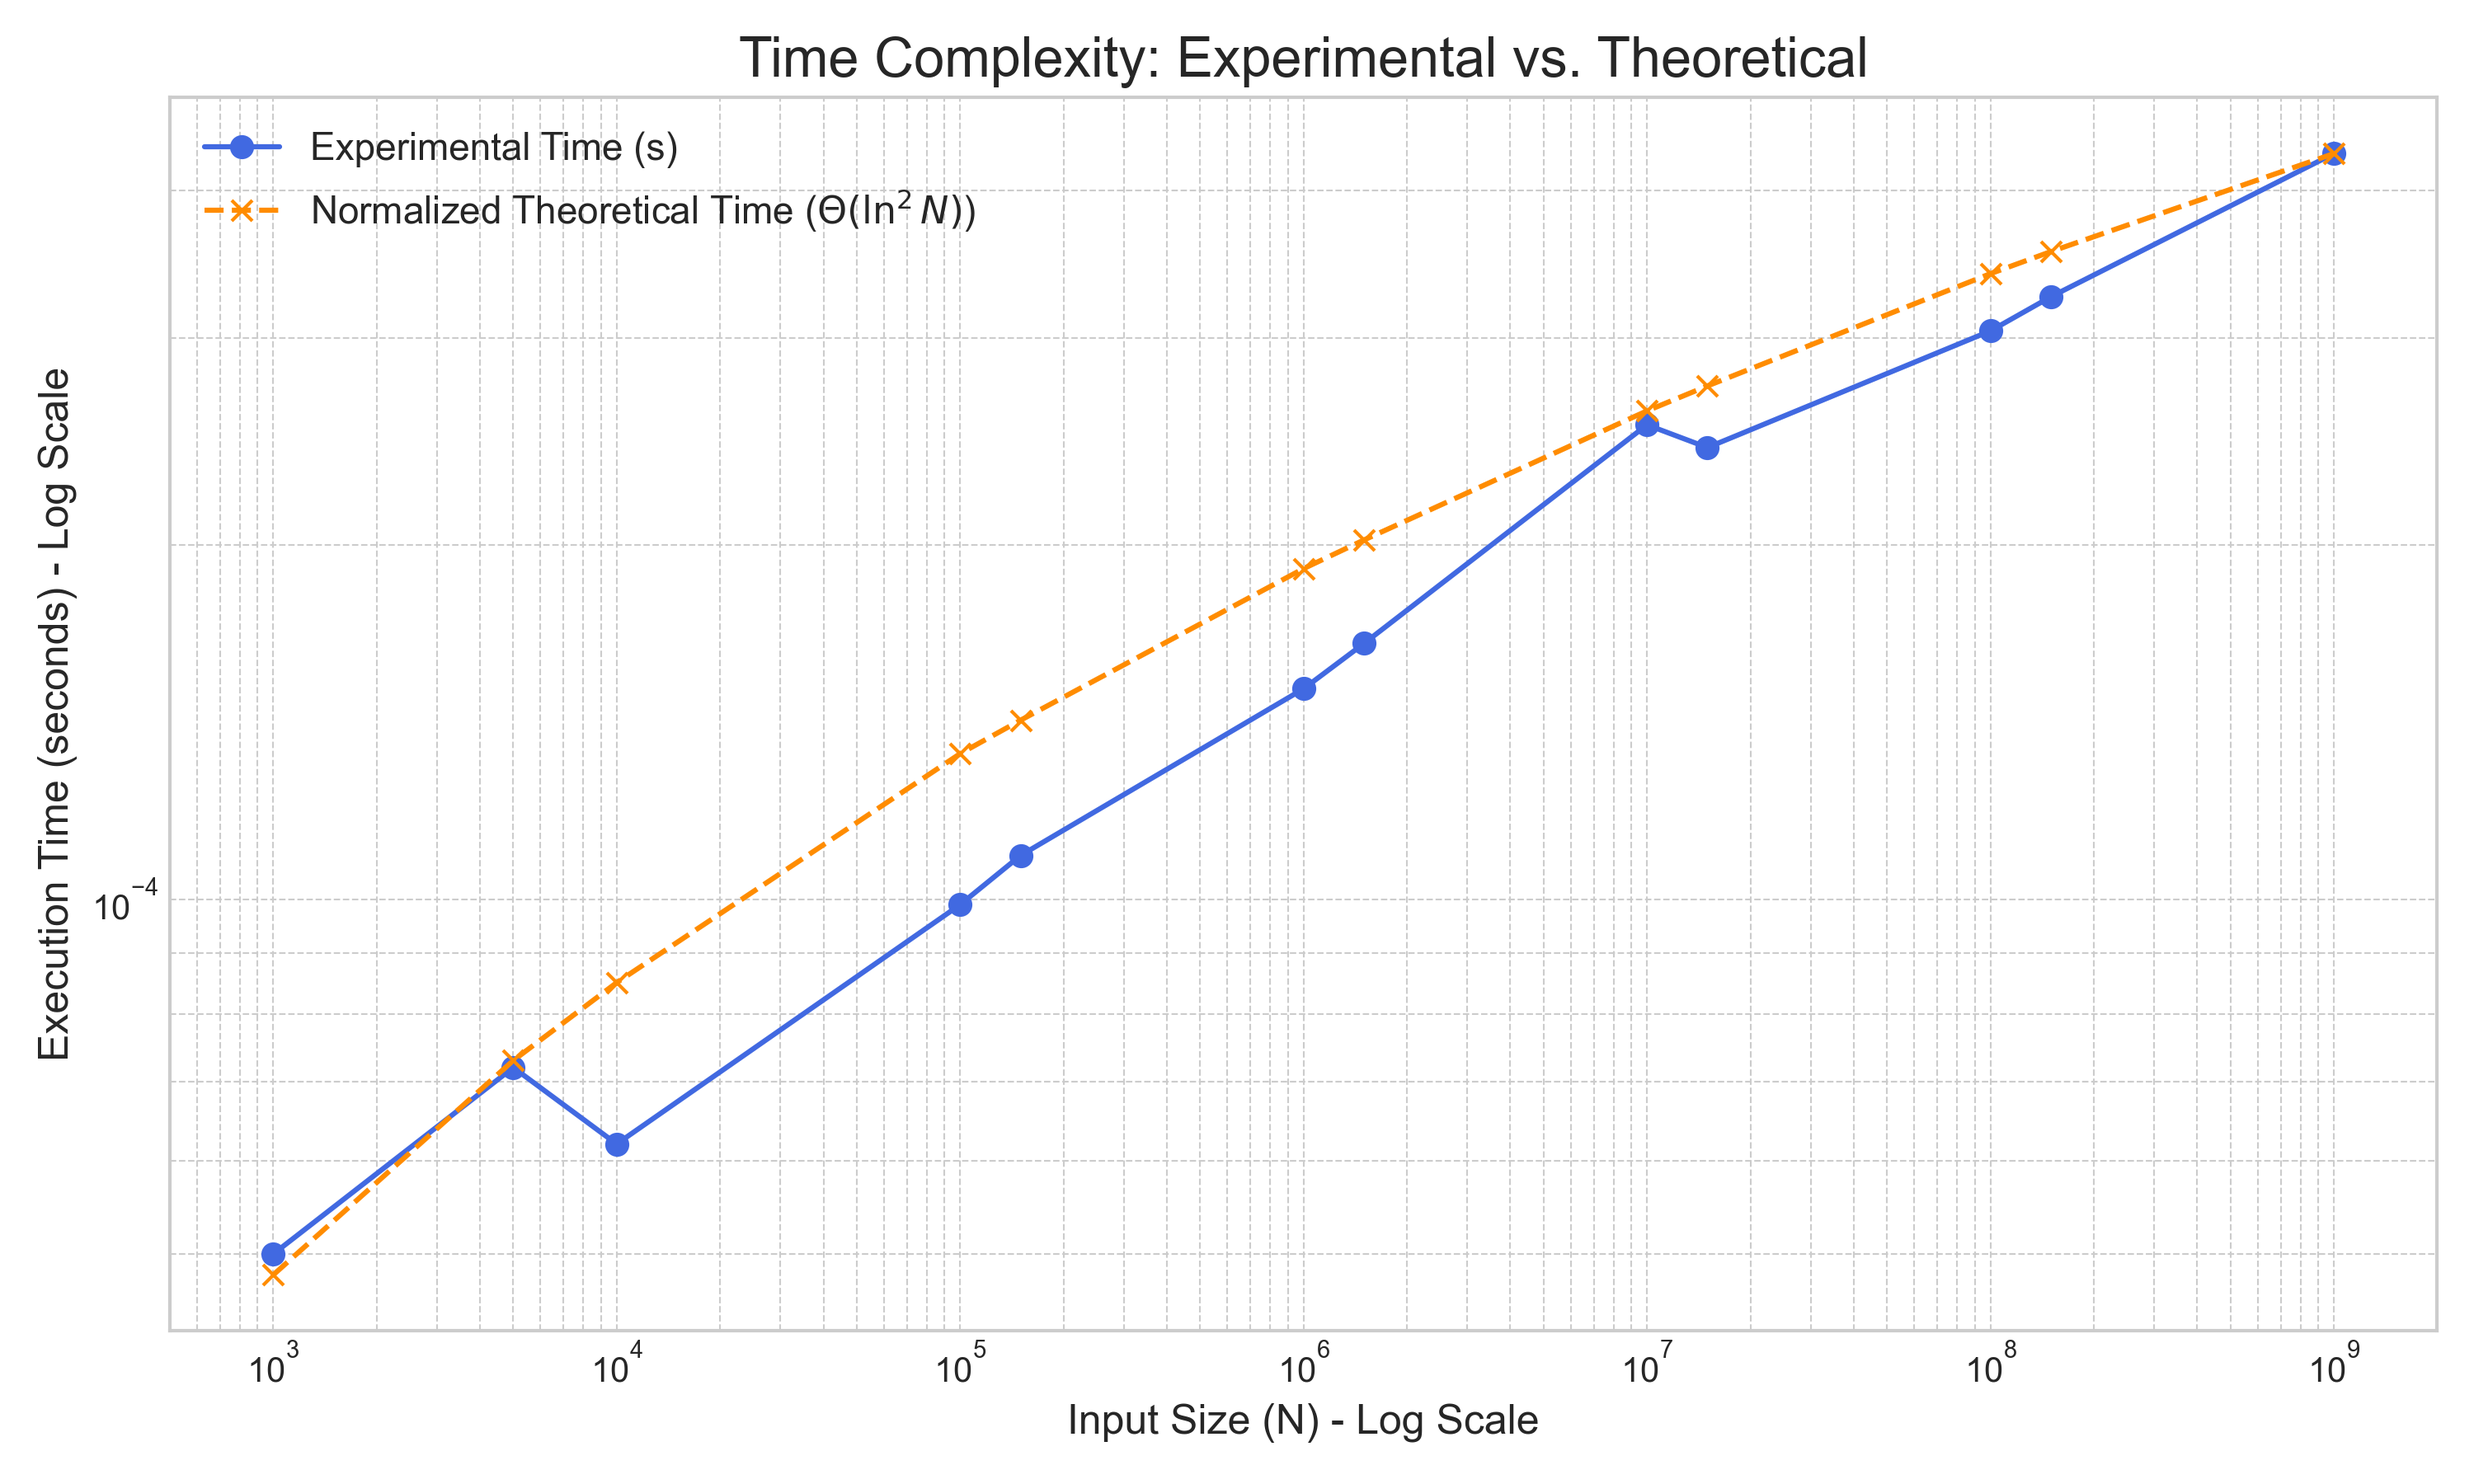
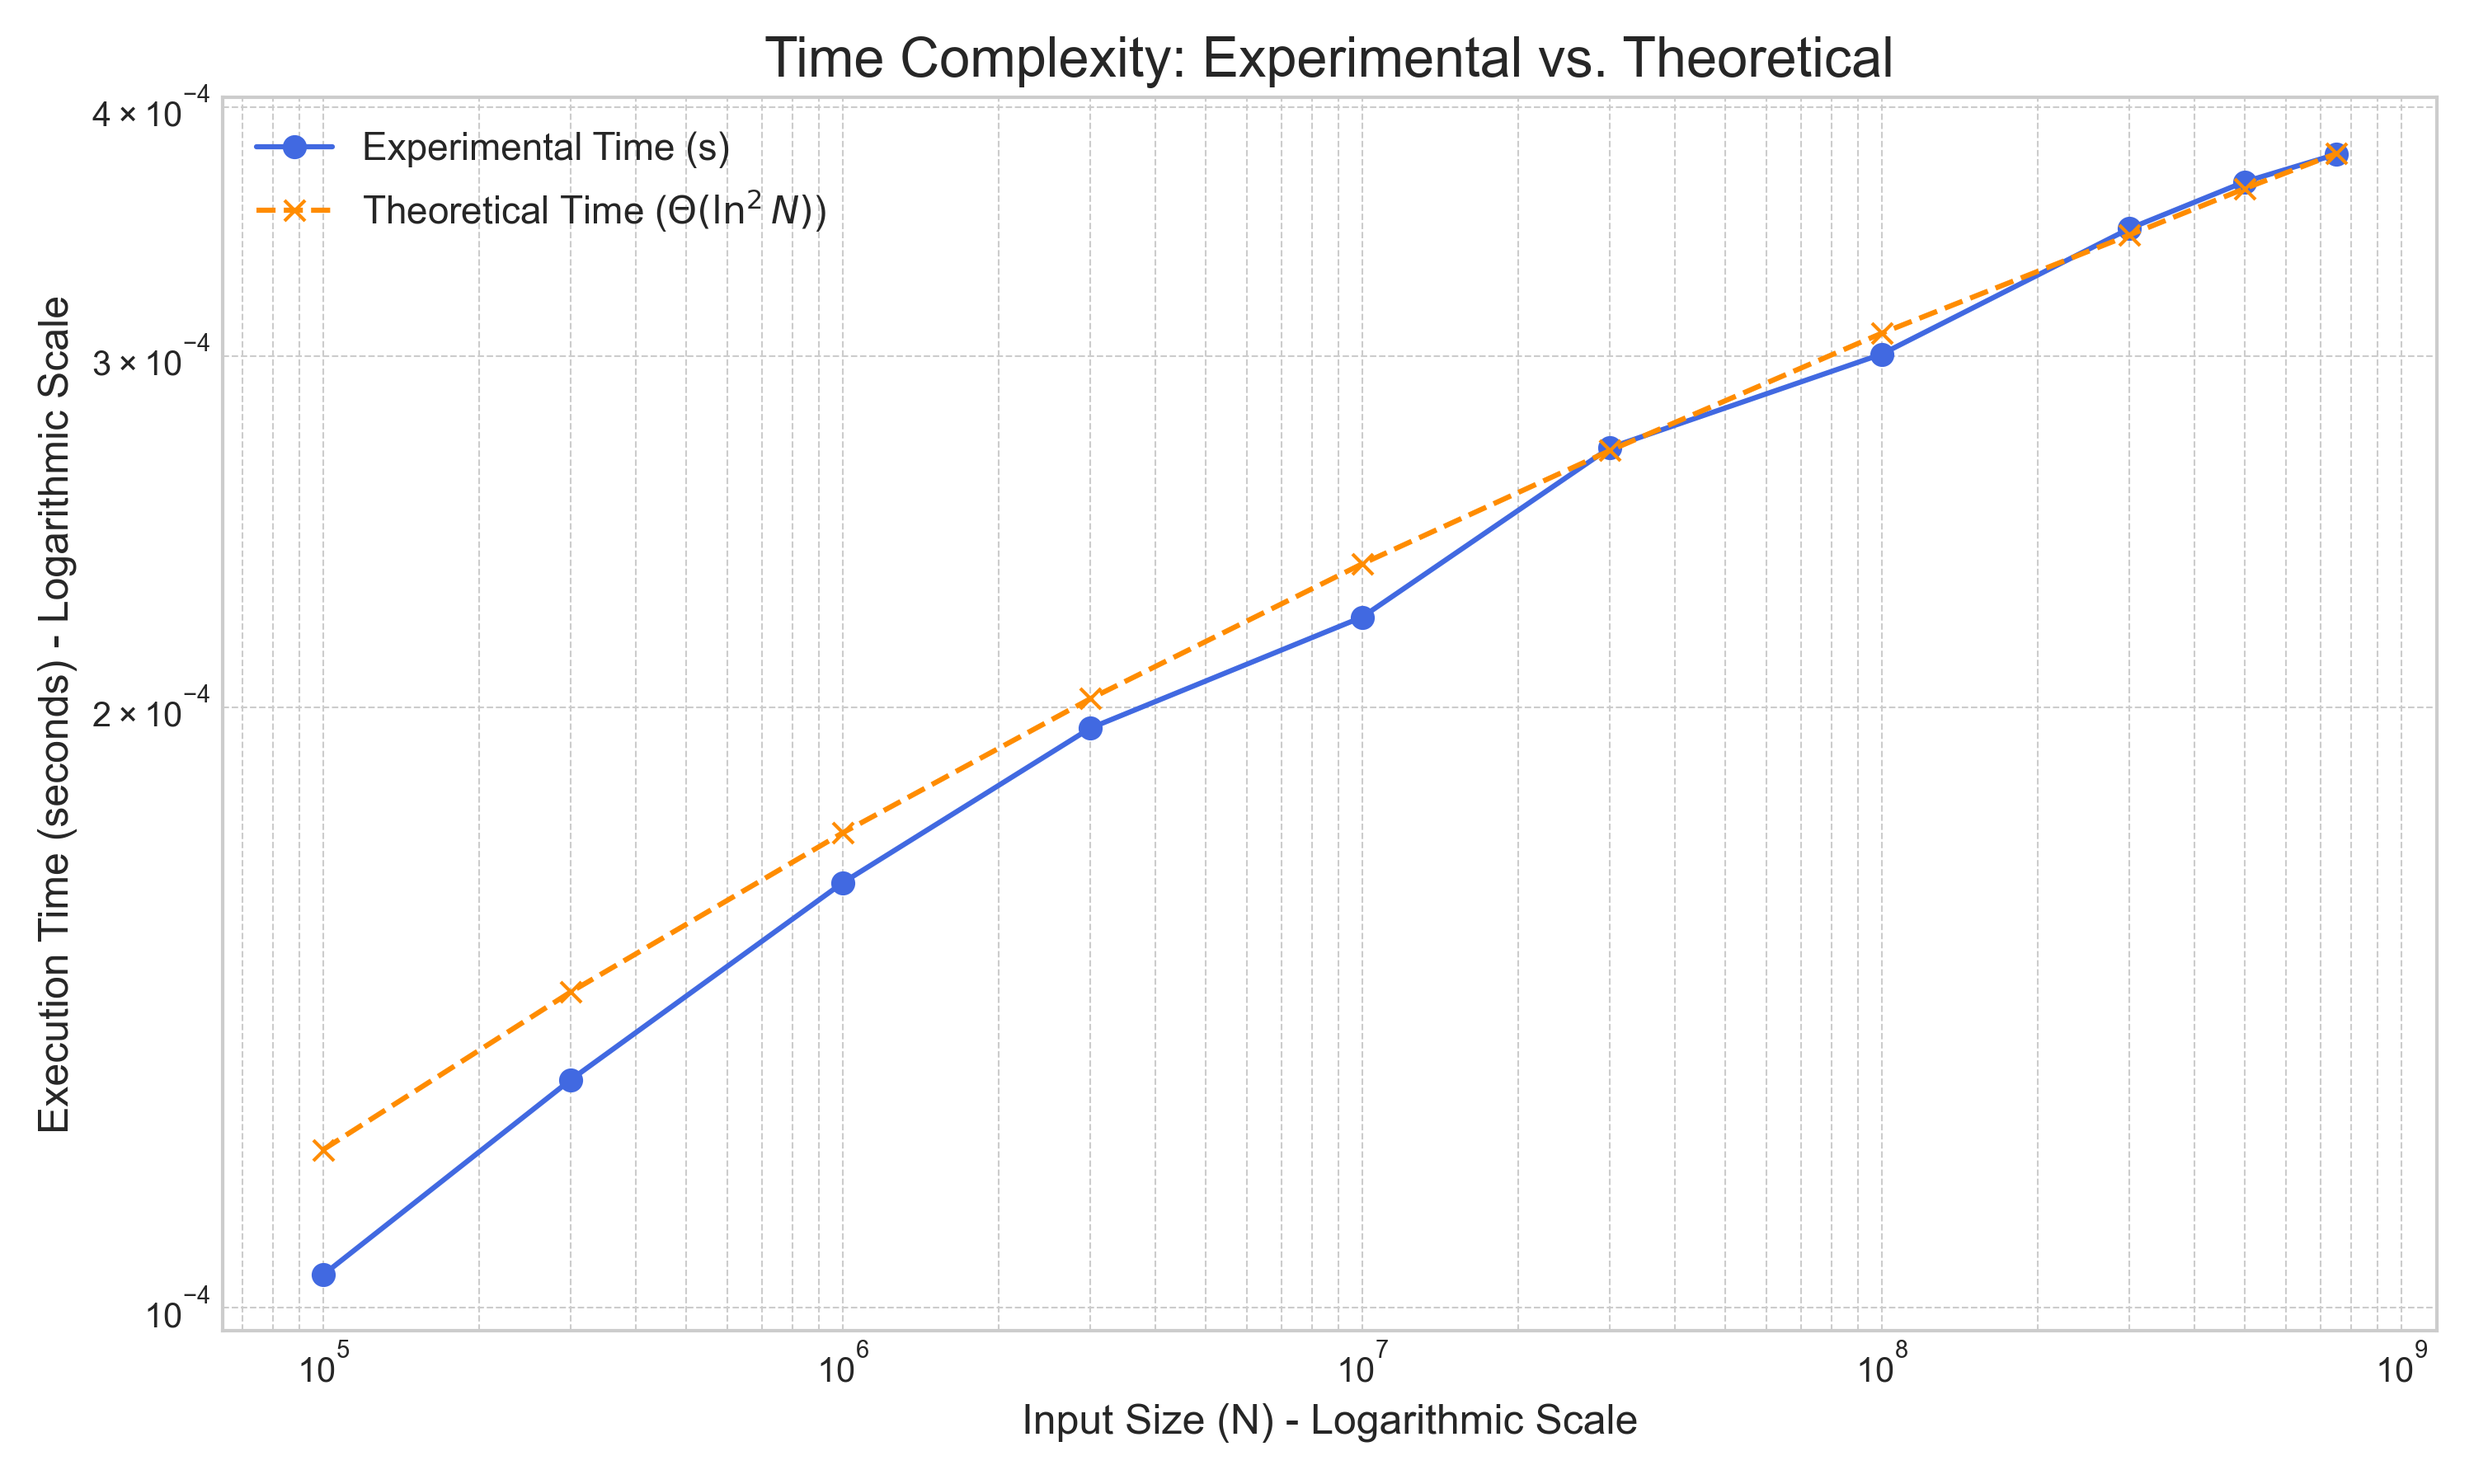
Changed data points and tweaked graph generation code

diff --git a/Project1.py b/Project1.py
@@ -1,5 +1,5 @@
 import math
-import time # Need this for the square root and timing functions
+import time
 
 """
 Inputs:
@@ -40,28 +40,28 @@ def Project1(n, a, b):
 
 if __name__ == "__main__":
     # Testing for different values of N
-    n_values = [1000, 5000, 10000, 150000, 100000, 150000, 1000000, 1500000, 10000000, 15000000, 100000000, 150000000, 1000000000, 1500000000]
+    # n_values = [1000, 5000, 10000, 150000, 100000, 150000, 1000000, 1500000, 10000000, 15000000, 100000000, 150000000, 1000000000]
+    n_values = [100000, 300000, 1000000, 3000000,10000000, 30000000, 100000000, 300000000, 500000000, 750000000]
 
-    # Loop through each N value to test it
+    experimental_times = []
+    runs_to_average = 50 # Number of times to run for each N
+
     for n_size in n_values:
-        print(f"--- Running for N = {n_size} ---")
-
-        # Creating two lists of size n, filled with some numbers
-        a_data = [2] * n_size
-        b_data = [3] * n_size
-
-        # 1. Record the time before calling the function
-        start_time = time.time()
-
-        # Call the function to do the calculation
-        final_result = Project1(n_size, a_data, b_data)
-
-        # 2. Record the time *after* the function finishes
-        end_time = time.time()
-
-        # 3. Calculate the difference to find the execution time
-        elapsed_time = end_time - start_time
-
-        print(f"The final sum is: {final_result}")
-        # Print the elapsed time, formatted to 6 decimal places for readability
-        print(f"Execution Time: {elapsed_time:.6f} seconds\n")
+        # Use a constant list to make each test as consistent as possible
+        a_data = [1] * n_size
+        b_data = [1] * n_size
+        
+        total_time_for_n = 0
+        print(f"Running for N = {n_size} ({runs_to_average} times)...")
+        
+        # Run the function multiple times and sum the time
+        for _ in range(runs_to_average):
+            start_time = time.perf_counter()
+            Project1(n_size, a_data, b_data)
+            end_time = time.perf_counter()
+            total_time_for_n += (end_time - start_time)
+            
+        # Calculate the average time
+        average_time = total_time_for_n / runs_to_average
+        experimental_times.append(average_time)
+        print(f"-> Average time: {average_time:.8f} seconds")

diff --git a/graph.py b/graph.py
@@ -2,24 +2,21 @@ import matplotlib.pyplot as plt
 import numpy as np
 
 n_values = np.array([
-    1000, 5000, 10000, 100000, 150000, 1000000, 1500000,
-    10000000, 15000000, 100000000, 150000000, 1000000000
-])
+    100000, 300000, 1000000, 3000000, 10000000, 30000000, 100000000, 300000000, 500000000, 750000000
+], dtype=np.float64)
 
 experimental_times = np.array([
-    0.000050, 0.000072, 0.000062, 0.000099, 0.000109, 0.000151, 0.000165,
-    0.000253, 0.000242, 0.000304, 0.000325, 0.000430
+    0.00010386, 0.00013012, 0.00016331, 0.00019525, 0.00022194,0.00026990, 0.00030066, 0.00034757, 0.00036685, 0.00037869
 ])
 
 normalized_theoretical_times = np.array([
-    0.000048, 0.000073, 0.000085, 0.000133, 0.000142, 0.000191, 0.000202,
-    0.000260, 0.000273, 0.000340, 0.000355, 0.000430
+    0.000120, 0.000144, 0.000173, 0.000202, 0.000236,0.000269, 0.000308, 0.000345, 0.000364, 0.000379
 ])
 
 
-# --- Plotting ---
+#  Plotting 
 plt.style.use('seaborn-v0_8-whitegrid')
-fig, ax = plt.subplots(figsize=(10, 6)) # Using a single axes object
+fig, ax = plt.subplots(figsize=(10, 6))
 
 # Plot Experimental Time
 ax.plot(n_values, experimental_times, marker='o', linestyle='-',
@@ -27,21 +24,17 @@ ax.plot(n_values, experimental_times, marker='o', linestyle='-',
 
 # Plot Normalized Theoretical Time
 ax.plot(n_values, normalized_theoretical_times, marker='x', linestyle='--',
-         color='darkorange', label=r'Normalized Theoretical Time ($\Theta(\ln^2 N)$)')
+         color='darkorange', label=r'Theoretical Time ($\Theta(\ln^2 N)$)')
 
-# Set x-axis and y-axis to logarithmic scale
+#  Axis Configuration 
 ax.set_xscale('log')
 ax.set_yscale('log')
 ax.set_title('Time Complexity: Experimental vs. Theoretical', fontsize=16)
-ax.set_xlabel('Input Size (N) - Log Scale', fontsize=12)
-ax.set_ylabel('Execution Time (seconds) - Log Scale', fontsize=12)
-
-# Add legend
+ax.set_xlabel('Input Size (N) - Logarithmic Scale', fontsize=12)
+ax.set_ylabel('Execution Time (seconds) - Logarithmic Scale', fontsize=12)
 ax.legend(loc='upper left', fontsize=11)
-
-# Add grid lines
 ax.grid(True, which="both", ls="--", linewidth=0.5)
 
-fig.tight_layout() # Adjust layout to prevent labels from overlapping
+fig.tight_layout()
 plt.savefig('complexity_analysis.png', dpi=300)
 print("Plot has been generated and saved as 'complexity_analysis.png'")
